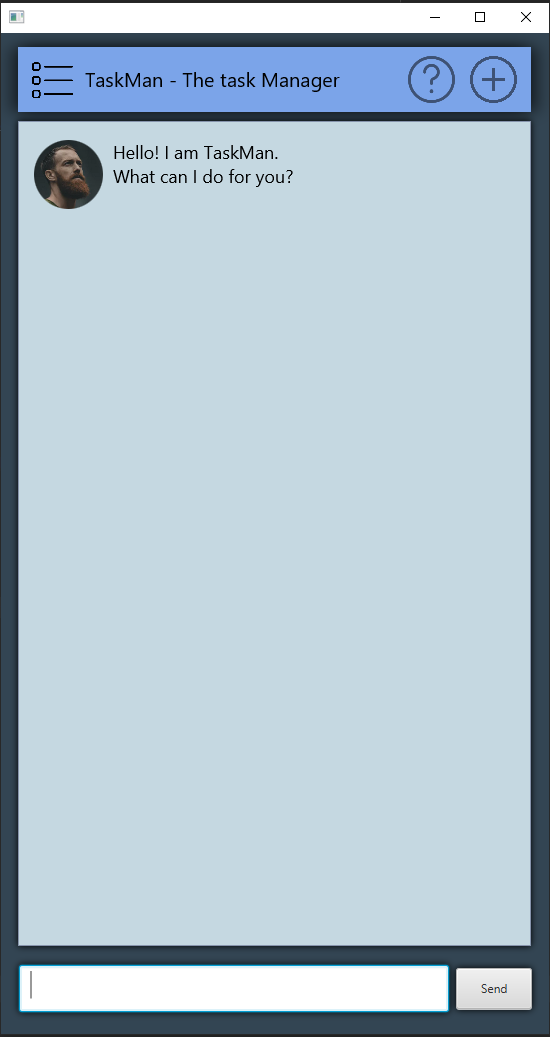
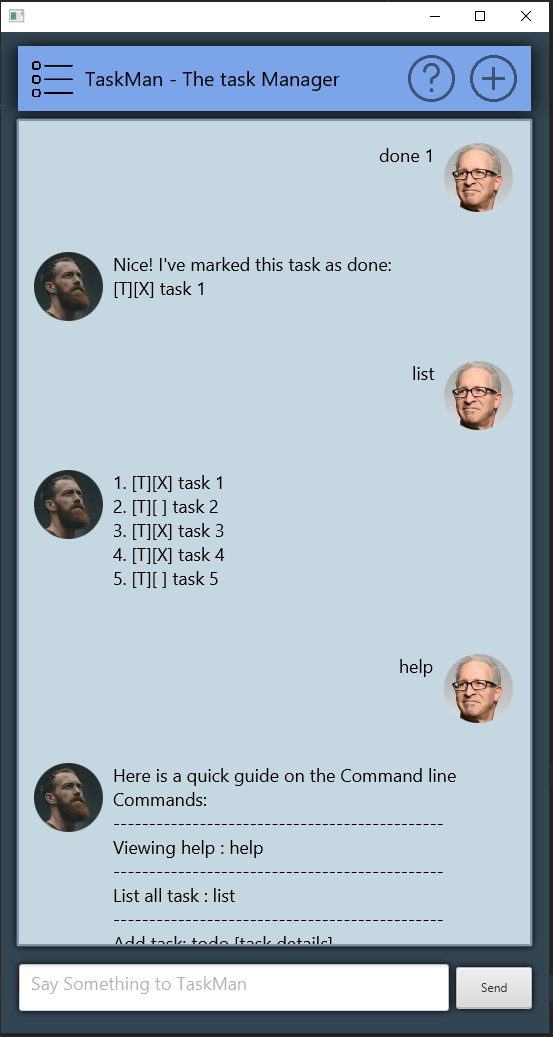
Fix GUI formatting

diff --git a/src/main/java/duke/gui/MainWindow.java b/src/main/java/duke/gui/MainWindow.java
@@ -283,23 +283,22 @@ public class MainWindow extends AnchorPane {
      * Handles when tasklist button pressed
      */
     @FXML
-    private void handleGetList()  {
+    private void handleGetList() throws InterruptedException {
         String getList = "list";
         String response = duke.guiProcess(getList);
         HBox list = DialogBox.getDukeDialog(response, dukeImage);
         list.setMinWidth(scrollPane.getWidth());
-
-        this.dialogContainer.getChildren().add(list);
+        addUserDukeResponseIntoContainer(getList, response);
     }
 
     /**
      * Handles when help button pressed
      */
     @FXML
-    private void handleGetHelp() {
-        String getList = "help";
-        String response = duke.guiProcess(getList);
-        this.dialogContainer.getChildren().add(DialogBox.getDukeDialog(response, dukeImage));
+    private void handleGetHelp() throws InterruptedException {
+        String getHelp = "help";
+        String response = duke.guiProcess(getHelp);
+        addUserDukeResponseIntoContainer(getHelp, response);
     }
 
 
